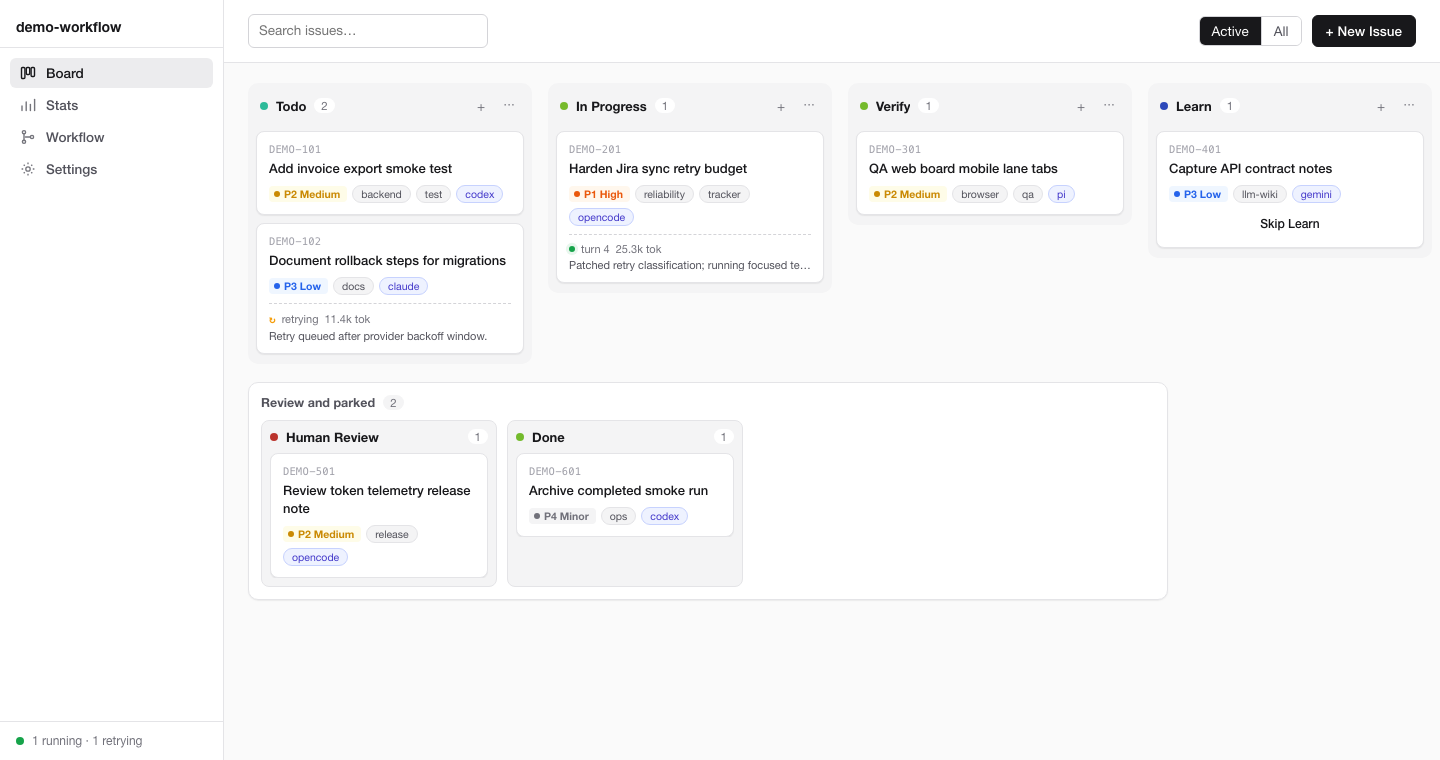
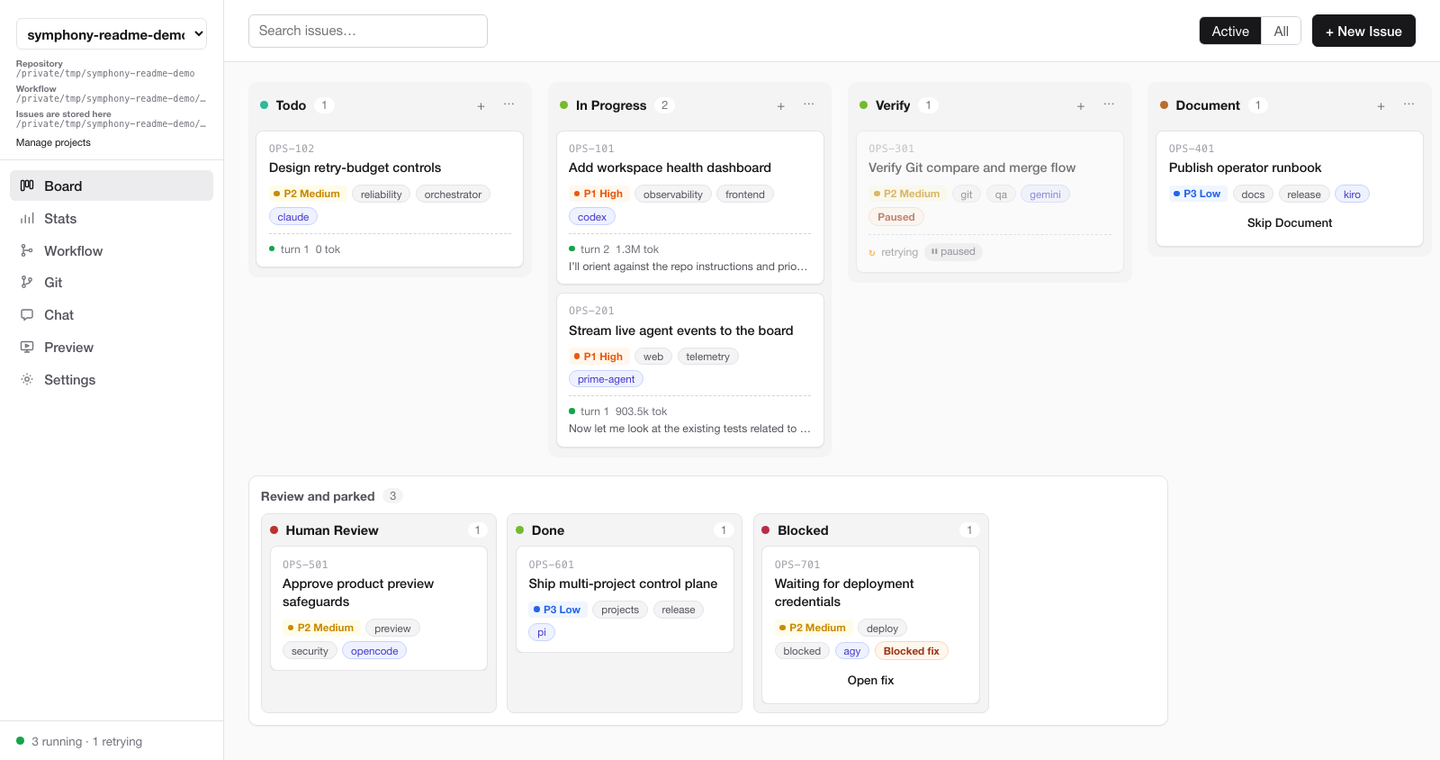
docs: refresh admin UI overview

diff --git a/README.ko.md b/README.ko.md
@@ -7,13 +7,14 @@
 [![Tests](https://github.com/cskwork/oh-my-symphony/actions/workflows/tests.yml/badge.svg)](https://github.com/cskwork/oh-my-symphony/actions/workflows/tests.yml)
 [![GitHub stars](https://img.shields.io/github/stars/cskwork/oh-my-symphony?style=social)](https://github.com/cskwork/oh-my-symphony/stargazers)
 
-> 하나의 관리자 UI, 하나의 터미널, 하나의 칸반 보드, 여덟 개의 AI 코딩 에이전트
+> 하나의 컨트롤 플레인, 하나의 터미널, 여러 프로젝트 보드, 여덟 개의 AI 코딩 에이전트
 > (**Codex**, **Claude Code**, **Gemini**, **AGY/Antigravity**, **Kiro**,
-> **OpenCode**, **Pi**, **Prime Agent**) — 티켓마다 골라 쓰고, 병렬로 실행하며, 실시간으로 지켜본다.
+> **OpenCode**, **Pi**, **Prime Agent**) — 티켓마다 골라 쓰고, 병렬로 실행하며,
+> Git 변경을 검토하고 빌드를 미리 보면서 실시간으로 지켜본다.
 
 ![Symphony 9999 admin UI screenshot](docs/admin-ui-screenshot.png)
 
-<sub>`symphony service start ./WORKFLOW.md --port 9999` — `http://127.0.0.1:9999/`에서 열리는 내장 관리자 UI. 이슈 생성/수정/삭제, 드래그 컬럼 이동, 실시간 실행 배지, 터미널 상태 묶음, 워크플로 편집, 통계, 설정을 한 화면에서 다룬다. 스크린샷은 데모 데이터다.</sub>
+<sub>`symphony service start ./WORKFLOW.md --port 9999` — `http://127.0.0.1:9999/`에서 열리는 내장 관리자 UI. 프로젝트 전환, 이슈·워크플로 관리, 실시간 실행·통계·Git 변경 확인, 병합·푸시·PR 생성, 운영자 채팅, 상태 확인이 포함된 제품 미리보기를 한곳에서 다룬다. 스크린샷은 정리된 데모 데이터다.</sub>
 
 ![symphony tui screenshot](docs/tui-screenshot.svg)
 
@@ -21,8 +22,8 @@
 
 **AI 코딩 CLI를 더 이상 저글링하지 말자.** Symphony는 각 칸반 티켓을
 원하는 에이전트에 넘기고, 격리된 `git worktree` 워크스페이스에서 동시에 실행하며,
-실시간 진행 상황 — 턴 수, 토큰 사용량, 레이트 리밋 여유 — 을
-9999 브라우저 관리자 UI 또는 터미널을 벗어날 필요 없는 Jira 스타일 TUI로 보여준다.
+실시간 진행 상황 — 턴 수, 토큰 사용량, 선택한 CLI가 제공할 때의 레이트 리밋
+여유 — 을 9999 브라우저 관리자 UI 또는 터미널을 벗어날 필요 없는 Jira 스타일 TUI로 보여준다.
 
 [**AI CLI 없이 60초 만에 체험하기 →**](#try-it-in-60-seconds-no-agent-cli-required)
 
@@ -49,10 +50,10 @@
   바꾸거나, 티켓마다 백엔드를 섞어 쓴다. 새 에이전트(Ollama, 로컬 모델,
   CLI가 있는 무엇이든)는 오케스트레이터를 바꾸지 않고 얇은
   `AgentBackend` Protocol 뒤에 끼워 넣으면 된다.
-- **에이전트가 실제로 무엇을 하는지 본다.** 실시간 칸반은 모든 실행 중 카드의
-  턴 수, 마지막 이벤트, 누적 토큰, 레이트 리밋 여유를 보여준다.
-  "멈춘 건가, 생각 중인 건가?" 더 이상 헷갈릴 일이 없고 — 로그인할 SaaS
-  대시보드도 없다.
+- **에이전트가 실제로 무엇을 하는지 본다.** 실시간 칸반은 실행 중 카드의
+  턴 수, 마지막 이벤트, 누적 토큰, 그리고 제공되는 경우 공급자가 보고한
+  레이트 리밋 여유를 보여준다. "멈춘 건가, 생각 중인 건가?" 더 이상 헷갈릴
+  일이 없고 — 로그인할 SaaS 대시보드도 없다.
 - **수십 개의 티켓을 병렬로, 무인으로 돌린다.** 동시성은 기본 내장 — 모든
   티켓이 자체 `git worktree` 워크스페이스를 가져서 에이전트끼리 충돌하지 않는다.
   Headless 모드는 진행 상황을 어떤 에디터에서든 `tail -F`할 수 있는 Markdown
@@ -66,11 +67,11 @@
   포크했다. 이 포크는 파일 우선 오케스트레이션 모델을 유지하면서 여덟 개의
   백엔드, TUI / 웹 운영 화면, SQLite 실행 lease, 재시작에도 보존되는 이슈
   플래그, 잠금 기반 Markdown 티켓 쓰기를 더한다.
-- **뷰어가 아니라 진짜 웹 앱.** 오케스트레이터 포트가 Linear 스타일 보드를
-  직접 서빙한다: 이슈 CRUD, 드래그 앤 드롭 컬럼, 컬럼별 스테이지 프롬프트,
-  브랜치 정책, Pause / Resume, 레인 프리셋, 검증된 티켓 DAG를 등록하는
-  운영자 채팅, 그리고 통계 페이지까지. 모든 편집은 주석을 보존한 채
-  `WORKFLOW.md`로 왕복 저장된다.
+- **뷰어가 아니라 진짜 웹 앱.** 오케스트레이터 포트가 멀티 프로젝트 컨트롤
+  플레인을 직접 서빙한다: 이슈 CRUD, 드래그 앤 드롭 컬럼, 컬럼별 스테이지
+  프롬프트, 브랜치 정책, Pause / Resume, 레인 프리셋, 운영자 채팅, 통계,
+  Git 검토·배포, 상태 확인이 포함된 제품 미리보기까지 제공한다. 워크플로 편집은
+  주석을 보존한 채 `WORKFLOW.md`로 왕복 저장된다.
 - **운영자급 도구가 기본 제공.** `symphony doctor`는 첫 실행에서 가장 흔한
   다섯 가지 실패(포트 충돌, CLI 누락, 자리표시자 URL, 쓰기 불가 워크스페이스)를
   한 번에 잡아낸다. `symphony service start/stop/restart/logs`는 오케스트레이터를
@@ -682,6 +683,8 @@ symphony ./WORKFLOW.md --port 9999
 
 `/`는 내장 웹 칸반 앱을 서빙한다(빌드 단계 없음, 가입 없음, 루프백 전용):
 
+- **Projects** — 독립된 프로젝트 보드 사이를 전환하고, 각 저장소·워크플로·
+  이슈 저장소 경로를 확인하며, 프로젝트를 만들거나 연다.
 - **Board** — 이슈 생성/수정/삭제, 드래그로 컬럼 이동, 실행 중 배지(턴 수,
   토큰), 워커 Pause / Resume, Document 스킵. 기본 화면은 네 개의 active agent
   lane만 보여주며, `Human Review`, `Done`, `Blocked`, `Archive`는 `All`로
@@ -689,12 +692,16 @@ symphony ./WORKFLOW.md --port 9999
 - **Workflow** — 칸반 컬럼 추가/삭제/이름변경/순서변경, 컬럼별 스테이지
   프롬프트 편집. 변경은 주석을 보존한 채 `WORKFLOW.md` frontmatter로
   저장되고, 이름이 바뀌거나 삭제된 컬럼의 티켓은 자동 마이그레이션된다.
+- **Git** — 히스토리, 작업 브랜치, 비교와 diff를 확인하고, 브랜치를 삭제하며,
+  검증된 작업을 병합·푸시하거나 PR을 연다.
 - **Chat** — 보드 인테이크 프로토콜을 따르는 운영자 채팅 세션
   ([Chat intake](#chat-intake--채팅에-요청하면-보드가-배달한다) 참고).
+- **Preview** — 분리된 대상 브랜치 체크아웃에서 루프백 전용 제품 미리보기를
+  시작·재시작·중지하고, 상태 확인·URL·제한된 로그를 본다.
 - **Stats** — 일별 토큰, 처리량, 컬럼별 체류 시간, 에이전트별 합계, 평균
   사이클 타임 (`.symphony/stats.jsonl` 기반).
-- **Settings** — 실제 로컬 브랜치 드롭다운으로 브랜치 정책 설정, 그리고
-  레인 프리셋 전환(default ↔ deep).
+- **Settings** — 실제 로컬 브랜치 드롭다운으로 브랜치 정책을 설정하고,
+  레인 프리셋과 지속적 개선 설정을 관리한다.
 
 JSON API 엔드포인트:
 
@@ -710,7 +717,9 @@ JSON API 엔드포인트:
 | PUT    | `/api/v1/workflow/branch-policy`  | feature base / merge target 브랜치 갱신       |
 | GET/POST | `/api/v1/workflow/presets[...]` | 레인 프리셋 목록 / 적용 (`/apply`)            |
 | *      | `/api/v1/chat/...`                | 운영자 채팅 세션 + WebSocket 스트림           |
-| GET    | `/api/v1/git/branches`            | 브랜치 정책 UI용 로컬 브랜치 목록             |
+| GET/POST | `/api/v1/projects[...]`         | 프로젝트 목록·생성·조회·열기                  |
+| GET/POST | `/api/v1/git/...`               | 브랜치·히스토리·비교/diff·병합·푸시·PR        |
+| GET/POST | `/api/v1/preview[...]`          | 미리보기 상태와 시작·재시작·중지              |
 | GET    | `/api/v1/stats?days=N`            | 집계된 실행 통계                              |
 | POST   | `/api/v1/refresh`                 | poll + reconcile 즉시 트리거                  |
 | POST   | `/api/v1/{id}/pause` `/resume`    | 실행 중 워커 보류 / 재개                      |
@@ -856,10 +865,12 @@ src/symphony/
                      archive.py, keep_awake.py, wiki_sweep.py
   notifications/     Slack state-transition notifications
   tui/               Textual Kanban TUI package
-  web/static/        built-in browser app assets (board / workflow / chat /
-                     stats / settings)
+  web/static/        built-in browser app assets (projects / board / workflow /
+                     git / chat / preview / stats / settings)
   webapi.py          web app REST routes + static SPA serving
   server.py          aiohttp server, health/state/refresh routes
+  projects.py        multi-project registry + managed service metadata
+  product_preview.py detached target-branch preview lifecycle
   chat.py            operator chat sessions + board-intake protocol
   continuous_improvement.py  idle-time improvement-proposal loop
   i18n.py            TUI/doc language switching

diff --git a/README.md b/README.md
@@ -7,13 +7,14 @@
 [![Tests](https://github.com/cskwork/oh-my-symphony/actions/workflows/tests.yml/badge.svg)](https://github.com/cskwork/oh-my-symphony/actions/workflows/tests.yml)
 [![GitHub stars](https://img.shields.io/github/stars/cskwork/oh-my-symphony?style=social)](https://github.com/cskwork/oh-my-symphony/stargazers)
 
-> One admin UI. One terminal. One Kanban board. Eight AI coding agents
+> One control plane. One terminal. Multiple project boards. Eight AI coding agents
 > (**Codex**, **Claude Code**, **Gemini**, **AGY/Antigravity**, **Kiro**,
-> **OpenCode**, **Pi**, **Prime Agent**) — pick per ticket, run in parallel, watch live.
+> **OpenCode**, **Pi**, **Prime Agent**) — pick per ticket, run in parallel,
+> review Git changes, preview builds, and watch live.
 
 ![Symphony 9999 admin UI screenshot](docs/admin-ui-screenshot.png)
 
-<sub>`symphony service start ./WORKFLOW.md --port 9999` — the built-in admin UI served at `http://127.0.0.1:9999/`: issue CRUD, drag/drop columns, live run badges, terminal-state grouping, workflow editing, stats, and settings. Screenshot uses sanitized demo data.</sub>
+<sub>`symphony service start ./WORKFLOW.md --port 9999` — the built-in admin UI served at `http://127.0.0.1:9999/`: switch projects; manage issues and workflows; inspect live runs, stats, and Git changes; merge, push, or open PRs; use operator chat; and launch health-checked product previews. Screenshot uses sanitized demo data.</sub>
 
 ![symphony tui screenshot](docs/tui-screenshot.svg)
 
@@ -21,7 +22,8 @@
 
 **Stop juggling AI coding CLIs.** Symphony hands each Kanban ticket to the
 agent you want, runs them concurrently in isolated `git worktree` workspaces,
-and shows live progress — turn counts, token usage, rate-limit headroom — in
+and shows live progress — turn counts, token usage, and rate-limit headroom
+when reported by the selected CLI — in
 the 9999 browser admin UI or a Jira-style TUI you never have to leave your
 terminal for.
 
@@ -51,9 +53,9 @@ terminal for.
   anything with a CLI) drop in behind a thin `AgentBackend` Protocol without
   changing the orchestrator.
 - **See what your agents are actually doing.** Live Kanban shows turn count,
-  last event, accumulated tokens, and rate-limit headroom for every running
-  card. No more "is it stuck or just thinking?" — and no SaaS dashboard to
-  log into.
+  last event, accumulated tokens, and provider-reported rate-limit headroom
+  when available. No more "is it stuck or just thinking?" — and no SaaS
+  dashboard to log into.
 - **Run dozens of tickets in parallel, unattended.** Concurrency is built in:
   every ticket gets its own `git worktree` workspace, so agents can't step on
   each other. Headless mode mirrors progress to a Markdown file you can
@@ -68,10 +70,10 @@ terminal for.
   backends, the TUI/web operator surfaces, SQLite run leases, restart-safe
   issue flags, and locked Markdown ticket writes.
 - **A real web app, not just a viewer.** The orchestrator port serves a
-  Linear-style board: issue CRUD, drag-and-drop columns, per-column stage
-  prompts, branch policy, pause / resume, lane presets, an operator chat that
-  files validated ticket DAGs, and a stats page. All edits round-trip into
-  `WORKFLOW.md` with your comments intact.
+  multi-project control plane: issue CRUD, drag-and-drop columns, per-column
+  stage prompts, branch policy, pause / resume, lane presets, operator chat,
+  stats, integrated Git review and delivery, and health-checked product
+  previews. Workflow edits round-trip into `WORKFLOW.md` with comments intact.
 - **Operator-grade tooling out of the box.** `symphony doctor` catches the
   five most common first-run failures (port collisions, missing CLIs,
   placeholder URLs, unwritable workspaces, missing board directories) in one
@@ -839,6 +841,8 @@ symphony ./WORKFLOW.md --port 9999
 `/` serves the built-in web Kanban app (no build step, no signup, loopback
 only). From the browser you can:
 
+- **Projects** — switch among independent project boards, inspect each
+  repository / workflow / issue-store path, and create or open projects.
 - **Board** — create / edit / delete issues, drag cards between columns,
   watch live run badges (turn count, tokens), pause / resume workers, and
   skip Document for tickets that do not need wiki write-back. The board defaults
@@ -849,12 +853,16 @@ only). From the browser you can:
   each column's stage prompt. Changes write back into `WORKFLOW.md`
   frontmatter with your comments preserved; tickets in renamed or removed
   columns migrate automatically.
+- **Git** — inspect history, task branches, comparisons, and diffs; delete
+  branches; merge verified work; push branches; or open a pull request.
 - **Chat** — operator chat sessions with the board-intake protocol
   (see [Chat intake](#chat-intake--type-a-request-the-board-delivers)).
+- **Preview** — start, restart, or stop a loopback-only product preview from
+  a detached target-branch checkout, with a health check, URL, and bounded logs.
 - **Stats** — tokens per day, throughput, per-column dwell time, per-agent
   totals, average cycle time (from `.symphony/stats.jsonl`).
 - **Settings** — branch policy (feature base / merge target) from a real
-  local-branch dropdown, plus the lane-preset switch (default ↔ deep).
+  local-branch dropdown, plus lane presets and continuous-improvement controls.
 
 JSON API endpoints:
 
@@ -870,7 +878,9 @@ JSON API endpoints:
 | PUT    | `/api/v1/workflow/branch-policy`  | Update feature base / merge target branches  |
 | GET/POST | `/api/v1/workflow/presets[...]` | List lane presets / apply one (`/apply`)     |
 | *      | `/api/v1/chat/...`                | Operator chat sessions + WebSocket stream    |
-| GET    | `/api/v1/git/branches`            | Local branch list for branch policy UI       |
+| GET/POST | `/api/v1/projects[...]`         | List, create, inspect, and open projects      |
+| GET/POST | `/api/v1/git/...`               | Branches, history, compare/diff, merge, push, PR |
+| GET/POST | `/api/v1/preview[...]`          | Preview status plus start/restart/stop        |
 | GET    | `/api/v1/stats?days=N`            | Aggregated run statistics                    |
 | POST   | `/api/v1/refresh`                 | Coalesced trigger of poll + reconcile        |
 | POST   | `/api/v1/{id}/pause` `/resume`    | Hold / release a running worker              |
@@ -1009,10 +1019,12 @@ src/symphony/
                      archive.py, keep_awake.py, wiki_sweep.py
   notifications/     Slack state-transition notifications
   tui/               Textual Kanban TUI package
-  web/static/        built-in browser app assets (board / workflow / chat /
-                     stats / settings)
+  web/static/        built-in browser app assets (projects / board / workflow /
+                     git / chat / preview / stats / settings)
   webapi.py          web app REST routes + static SPA serving
   server.py          aiohttp server, health/state/refresh routes
+  projects.py        multi-project registry + managed service metadata
+  product_preview.py detached target-branch preview lifecycle
   chat.py            operator chat sessions + board-intake protocol
   continuous_improvement.py  idle-time improvement-proposal loop
   i18n.py            TUI/doc language switching
